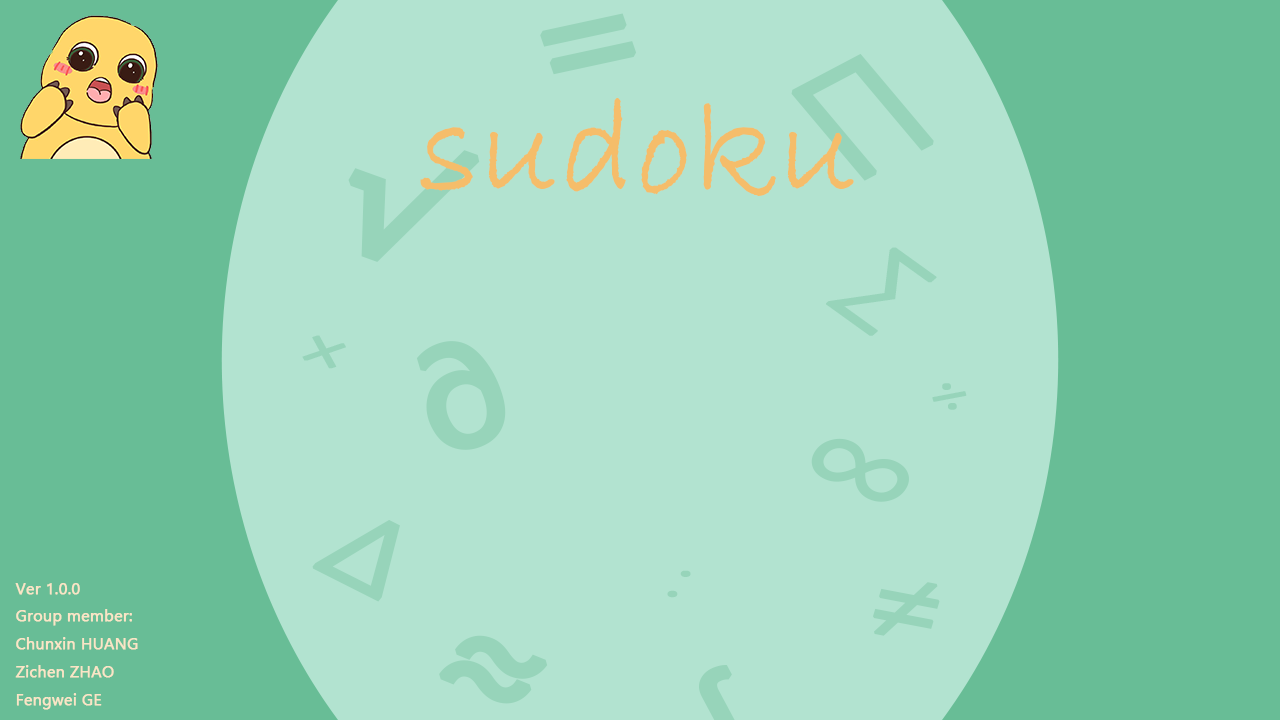
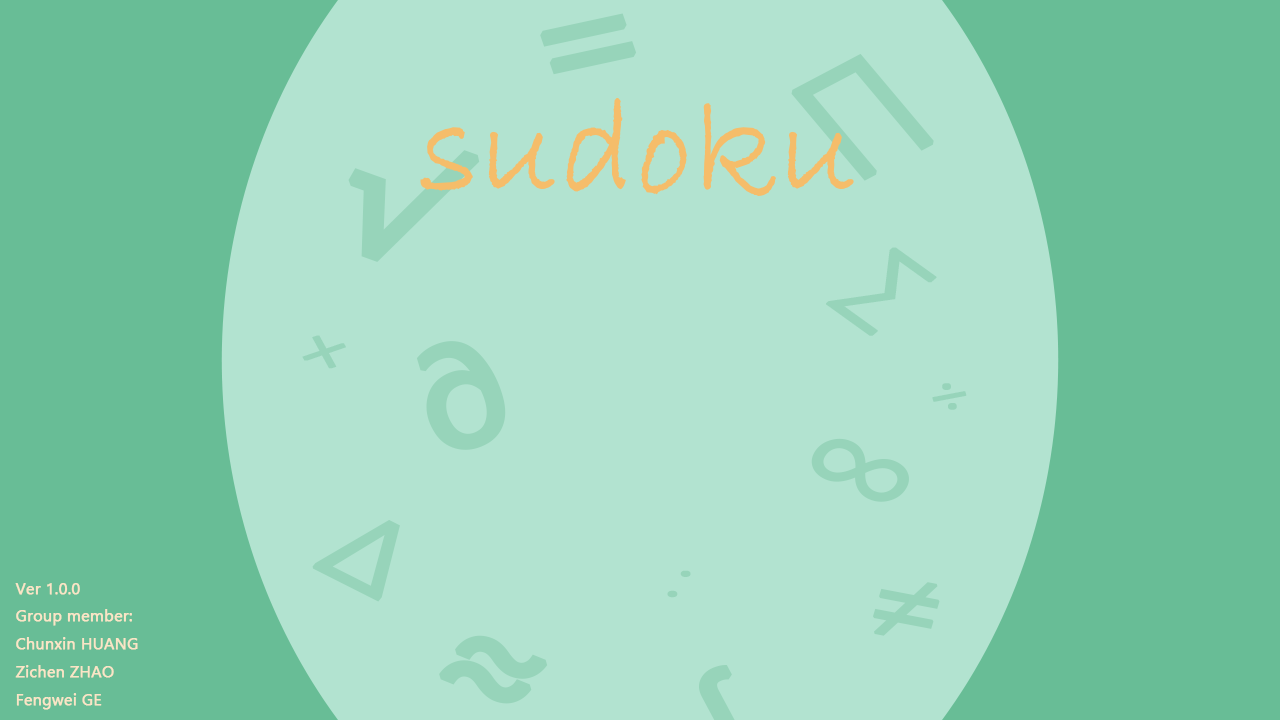
添加了MainWindow的Logo动画变动效果

Changed region(s): [[0.0, 0.0, 0.125, 0.2444]]

diff --git a/src/MainWindow.cpp b/src/MainWindow.cpp
@@ -14,6 +14,7 @@ MainWindow::MainWindow(QWidget* parent)
 
     ui->buttonIntroText->setVisible(false);
     ui->buttonLoveText->setVisible(false);
+    ui->buttonLogoPressed->setVisible(false);
 
     Utils::initUtils();
 
@@ -56,10 +57,12 @@ void MainWindow::on_buttonIntroText_clicked() const
     ui->buttonIntroText->setVisible(false);
 }
 
-void MainWindow::on_buttonBackground_clicked() const
+void MainWindow::on_buttonBackground_clicked()
 {
     ui->buttonLoveText->setVisible(false);
     ui->buttonIntroText->setVisible(false);
+    ui->buttonLogoPressed->setVisible(false);
+    ui->buttonLogo->setVisible(true);
 }
 
 void MainWindow::on_buttonModeHell_clicked()
@@ -157,3 +160,16 @@ void MainWindow::moveButtonModeSeparately() const
     ui->buttonModeHard->move(280, 570);
     ui->buttonModeHell->move(645, 570);
 }
+
+void MainWindow::on_buttonLogo_clicked()
+{
+    ui->buttonLogo->setVisible(false);
+    ui->buttonLogoPressed->setVisible(true);
+}
+
+void MainWindow::on_buttonLogoPressed_clicked()
+{
+    ui->buttonLogo->setVisible(true);
+    ui->buttonLogoPressed->setVisible(false);
+}
+

diff --git a/include/MainWindow.h b/include/MainWindow.h
@@ -31,7 +31,7 @@ private slots:
 
     void on_buttonIntroText_clicked() const;
 
-    void on_buttonBackground_clicked() const;
+    void on_buttonBackground_clicked();
 
     void on_buttonModeHell_clicked();
 
@@ -47,10 +47,15 @@ private slots:
 
     void moveButtonModeSeparately() const;
 
+    void on_buttonLogo_clicked();
+
+    void on_buttonLogoPressed_clicked();
+
 private:
     Ui::MainWindow* ui;
     bool selectFlag;
     const int togetherX = 462;
     const int togetherY = 491;
+
 };
 #endif // MAINWINDOW_H
